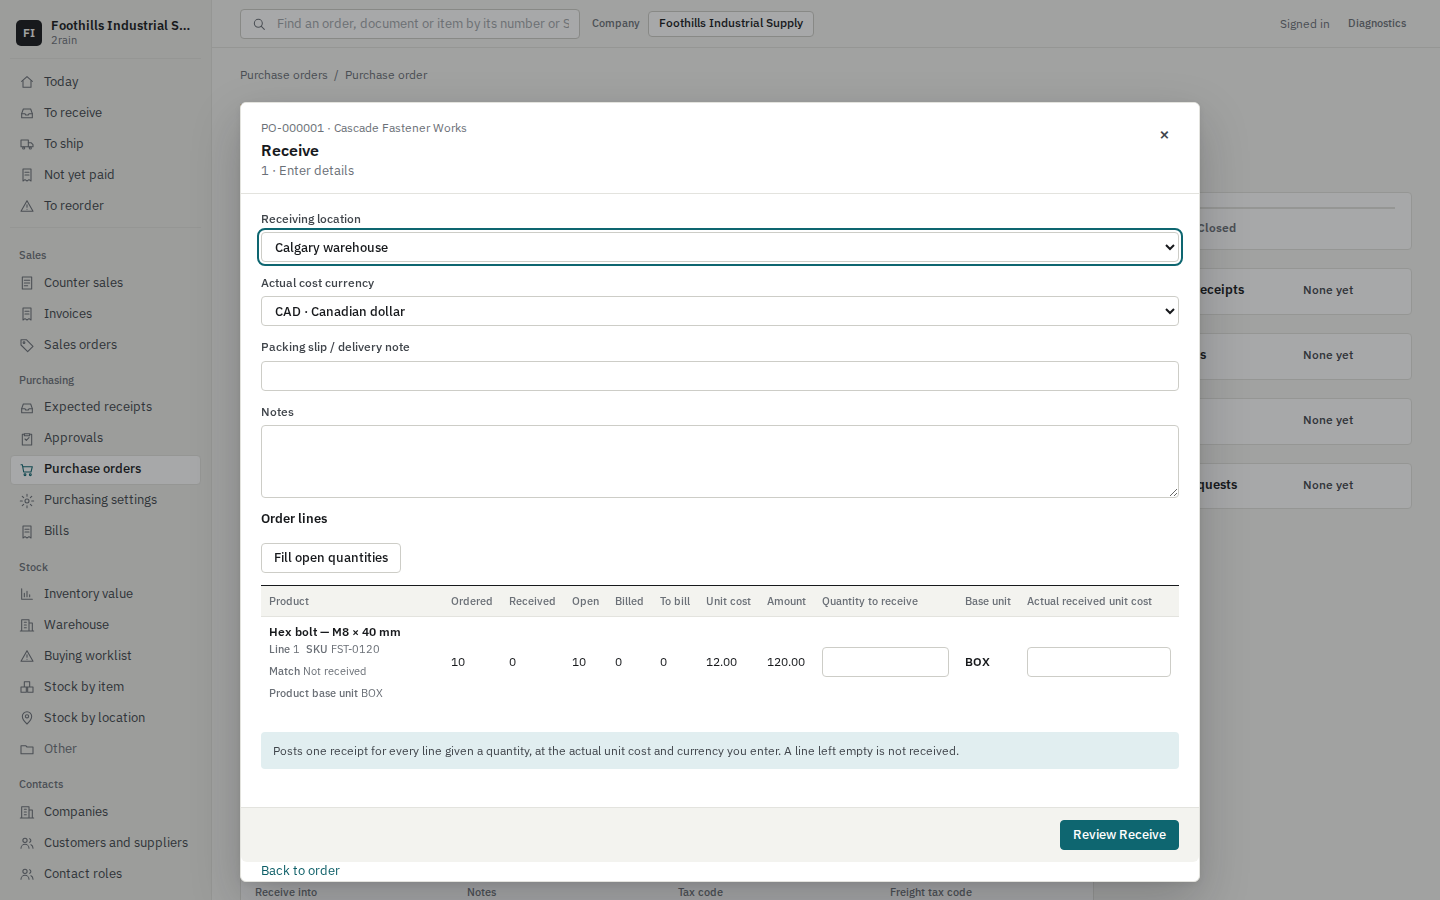
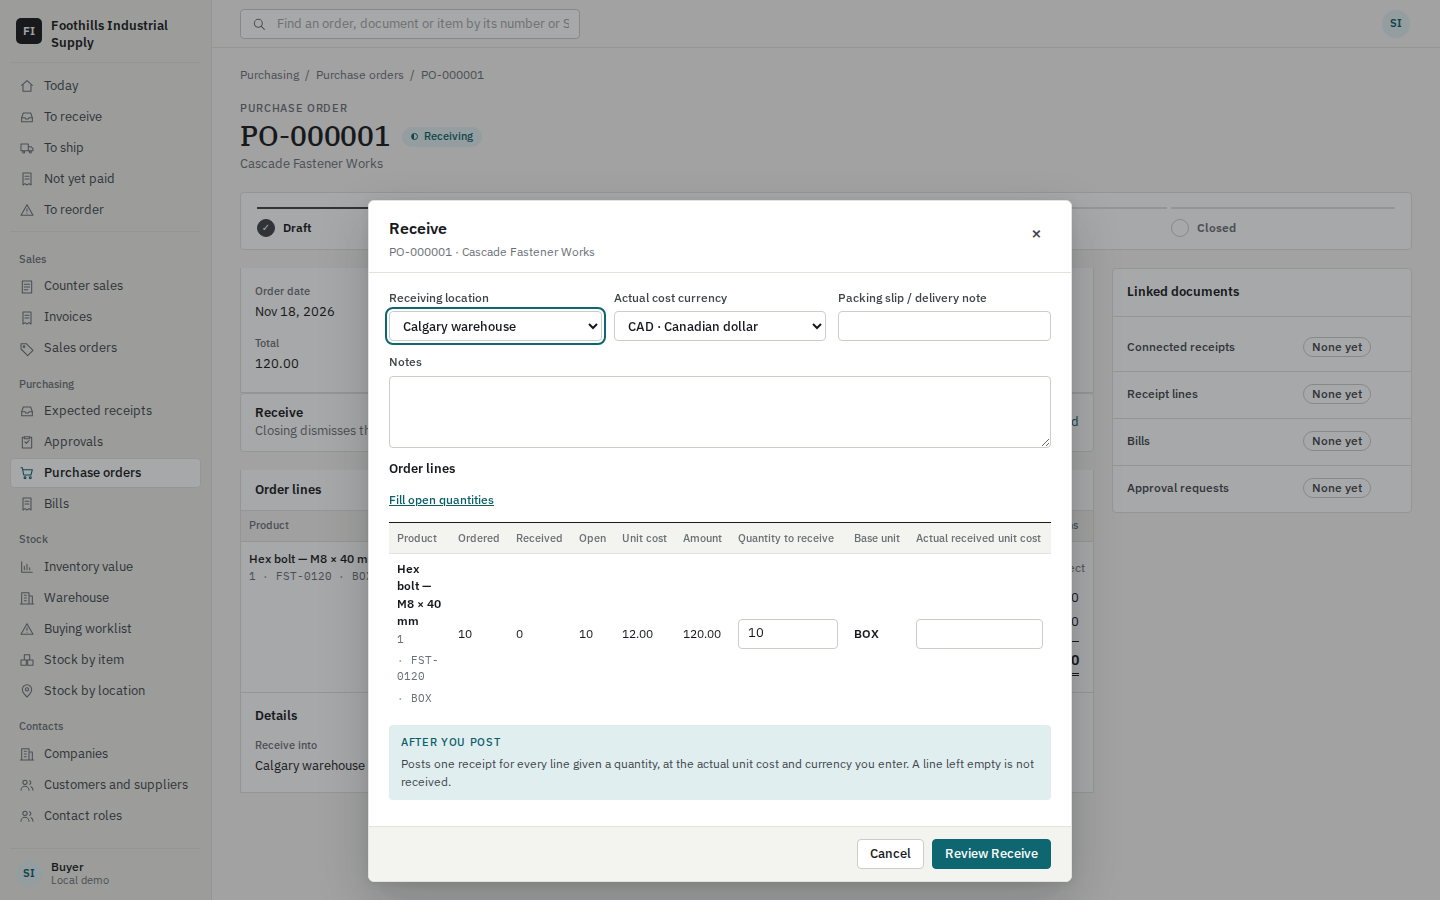
docs(execution): LOOK-1 round 3 integrated — record, ledger and review-log rows, evidence
Round 3 (c)-(e) merged at e7a284f4 (packet tip bfae71f0, CI run
44325476363 green); 28 app screenshots re-shot from that run's
look-evidence artifact (the 28 mockup shots are unchanged).

Packet: LOOK-1

diff --git a/docs/execution/packets/LOOK-1.md b/docs/execution/packets/LOOK-1.md
@@ -1,78 +1,75 @@
 # LOOK-1 — every screen in the Ledger look the owner chose
 
-Status: round 2 frozen at `e15cda79` (CI green, run 44288078657). Mechanical (no Critical path). Round 1 integrated at
-`5d07856a` (its full record: this file at `51b99470`). Round 2 base `51b99470`. Rulings 2026-11-18: `rail` key, per-field
-`disclosure: 'more'` and `dateOnly: true` approved; B11 option B (one primary "Save"); Custom group declared by the
-customization expansion, never read from ids (lease on `packages/customization/src/apply.ts` for that one change).
+Status: round 3 frozen at `bfae71f0` (CI green, run 44325476363). Mechanical (no Critical path). Round 3 answers Fable
+review 1 (`2rain-missions/look-1-fable-review-1.md`), merged in groups: (a) `fb3f95ee`, (b) `eed94293`, (c)–(e) together
+(ruled: they share render files; the deviation from one merge per group is accepted). Earlier rounds: round 2 `d0d3baf7`,
+round 1 `5d07856a` (their records: this file at `c3ab7ab1` and `51b99470`). Claim base: main `1156974b`, merged in.
 
-## Round 2 claims (round 1: tokens, shell, record parts, lists/forms, the proof `look.composed-application.spec.ts`)
+## Round 3 claims
 
-1. A (record pages): one PO lines table, totals under it; empty child sections say "None yet" quietly; no engineering
-   prose; long commands and print behind "Record actions"; next-step buttons carry the record's figure ("Receive 10");
-   exactly one current step; the document badge takes its declared colour (the CSS never coloured it); eyebrow
-   "Purchase order"; Details shows only fields not shown elsewhere; technical details quiet.
-2. Right rail: `presentation.rail` on a dataset (PO receipts, receipt lines, bills, approvals; SO shipments, invoices)
-   stacks it in one column beside the sheet; a dataset with line progress is refused the rail.
-3. B (forms): first fields, then "More details" (`disclosure: 'more'`; a required field is refused it); order dates are
-   `dateOnly: true` (a date input, no "(UTC)"; refused on a non-date-time field); one primary "Save".
-4. C: the proof enters an Equipment record (name, serial, date, status) and shows its page: eyebrow, title, the
-   lifecycle badge, one Details grid with values by field kind (a choice's label, a date as a date), identity in
-   technical details. Customization declares a "Custom" module (`custom_record-types`) and lists each record type
-   there through `navigationModuleId`; the group keeps its heading over a placed single destination, which keeps its
-   own name. Lists show no selection bar until a row is ticked.
-5. D: the sidebar does not repeat Today; Companies list under Contacts, Inventory value under Stock; a group's several
-   occasional destinations wait under its own "Other" (Stock: movements, period locks, inventory transactions, counts);
-   the distributor seed and order-entry fixture name the company "Foothills Industrial Supply" (ids unchanged); Today's
-   Open sits beside the find box.
+1. (a) Chrome: the top bar is the search and an initials avatar whose menu holds the principal, the demo's person
+   switch and Diagnostics; the sidebar's head is the page's company (the same Company links); queues and areas scroll
+   between a fixed head and a foot naming the person and role; one Settings disclosure holds the groups' occasional
+   destinations; a record's identity and revision live in its "…" or Record actions menu. Queue counts on every page
+   are SPEED-1's (PR #72), styled once. The proof refuses raw ids anywhere on the page.
+2. (b) Stock: optional List key `compact: 'scrollTable'` keeps a table scrolling in its panel on a phone; declared
+   Lists name themselves once, count plainly, keep a one-line toolbar, read zeros faint (`data-zero`), badge only
+   exceptions.
+3. (c) Record bodies: the badge names the stepper's current step from the declared progression (the SO's first step
+   is "Draft"); one Linked documents panel; one document sheet; Details lists what the record holds (eight, the rest
+   under More details); empty charge rows hidden; `print.currency` reads "Total CAD"; PO lines' three-way match in
+   their details; breadcrumbs area / List / record; Record actions is "…"; generic records: serif title, badge beside
+   it, revision for screen readers, Edit secondary, one Details heading.
+4. (d) Receive: rows start with what is open (the declared fill, at open); header fields three to a row; the declared
+   consequence as "After you post"; Cancel beside the one primary; the review step stays (contract). New PO: eyebrow and
+   serif title, neutral Draft badge, a line's discount and tax behind its More (`disclosure: 'more'` on line fields),
+   × to remove, one primary "Save draft" (ruling).
+5. (e) Today: no find box (searched from the top bar, on a phone too), tile icons, a centred line under the tiles.
 
 ## Decisions
 
-- "Other", not "More", for a group's occasional destinations: the compiler's top-level More keeps its one meaning.
-- Inventory transactions is `setup` membership: placement only, never authorization (ADR-0030).
-- The seed renames the provisioned company by one update at revision 1, replayed by its key on restart.
-- Customized release roots change (the expansion adds the Custom module): pre-tenant re-baseline, ADR-0066.
-- Today keeps tiles and the find box: no "To receive" table or activity query exists (the page budget forbids one per widget).
-- The proof also refuses canonical ids and raw instants on every screen.
-- Next-step buttons are the action's label plus the record's figure ("Receive 10", "Ship 4"); "Receive 10 remaining"
-  would need a per-action template, a language key not taken here.
+- The badge and stepper agree by construction: the badge reads the progression's current step, its last when all are
+  complete, the record's state when no step applies (cancelled). A closed PO with goods to bill reads "Billing".
+- ux-grammar wins: pager targets stay 44px; the save note keeps its row above Save (pinned layout).
+- PO lines keep Ordered and Received (line progress names two quantity columns) and Line (it names the receive input).
+- New optional keys: List `compact`, `print.currency`; each with compiler accept/refuse tests, coverage re-derived,
+  release re-baselined (pre-tenant, ADR-0066).
+- A sortable heading's screen-reader text is contained by its scrolling table (it widened the phone page).
 
 ## Gates
 
-CI run 44288078657 green at `e15cda79` (every job, the proof). Local: format, lint, scoped typecheck, touched unit tests, the
-web contract and integration files, `check:app-release`, coverage decisions re-derived. Shots: `docs/execution/evidence/look-1/`.
+CI run 44325476363 green at `bfae71f0` (every job, the proof). Local: format, lint, scoped typecheck, touched unit tests,
+the web contract and integration files, `check:app-release`. Shots: `docs/execution/evidence/look-1/` (56, from the run).
 
 ## Test it yourself
 
-`pnpm --filter @north-star/api dev:reset`, `pnpm dev`, <http://127.0.0.1:4174/>: the bar names Foothills Industrial
-Supply; open a purchase order: one lines table, "Receive N" button, linked records in the right column, other commands
-under Record actions; New purchase order: four fields then More details, a date-only order date, one Save; Customize an
-Equipment type, add one record: it is under Custom with labelled values.
+`pnpm --filter @north-star/api dev:reset`, `pnpm dev`: the avatar menu holds Switch person and Diagnostics; Stock by item
+on a phone scrolls sideways in its panel; a purchase order's badge reads its step, Linked documents sit right, "Total
+CAD" under the lines; Receive opens with the open quantities filled; New purchase order hides discount and tax per line.
 
 ## Filed
 
-- SO lines stay two tables: fulfillment and commercial read models are separate queries and read models do not nest.
-- Rail activity, stepper captions, "created by": no event source. Create-form running total: no declared draft formula.
-- `saveThen` (option A, "Save and place") for phase 3, with its partial-failure notes (save committed, place refused).
-- To invoice queue; totals' currency code. Tenant record pages: the badge is the lifecycle ("Active · revision 1", pinned by specs), not the record's own Status
-  choice (a patch declares no status role); activity has no source; the breadcrumb reads "Equipment / Equipment".
-- The assistant panel (AGENT-3) restyle follows once it lands.
+- Today's "To receive" rows: a row read on the landing page is SPEED-1's loader and page budget, not the look's.
+- "+ Purchase order / + Sales order" on Today: a launcher declares no create actions.
+- Parties block: grouping Vendor and Receive into would repeat the subtitle and a fact; no addresses exist.
+- Step dates, "placed … by", the date and location subtitle, activity, bell: no source.
+- Tenant record pages: the badge is the lifecycle; a patch declares no status role. Native date input kept.
+- Assistant panel restyle follows AGENT-3.
 
 ```record-claim
 {
   "schemaVersion": "northstar.record-claim/v1", "packet": "LOOK-1",
-  "base": "51b99470d1b9e29af733943f979d2598967426b8", "head": "e15cda79c78e2a9f7288aa498aedc6c5a64b43b5",
+  "base": "1156974be082eca82ecb05135036c588502a8306", "head": "bfae71f09c22a6c84e50f1a20857a5729c4789aa",
   "changedPaths": [
-    "apps/api/src/composition-root.ts", "apps/web/release/app.authored.json", "apps/web/release/app.compiled.json", "apps/web/src/component-registry.ts", "apps/web/src/document-editor.ts", "apps/web/src/editor-controls.ts", "apps/web/src/ledger-styles.ts", "apps/web/src/message-catalog.ts",
-    "apps/web/src/surface-composition.ts", "apps/web/src/surface-runtime.ts", "apps/web/test/browser/composed-application.spec.ts", "apps/web/test/browser/customer-defaults.spec.ts", "apps/web/test/browser/inventory-documents.spec.ts", "apps/web/test/browser/inventory-valuation.spec.ts", "apps/web/test/browser/inventory-warehouse-mode.spec.ts", "apps/web/test/browser/location-runtime.spec.ts",
-    "apps/web/test/browser/look.composed-application.spec.ts", "apps/web/test/browser/loop-scorecard.ts", "apps/web/test/browser/message-catalog.spec.ts", "apps/web/test/browser/order-entry.spec.ts", "apps/web/test/browser/order-pages.spec.ts", "apps/web/test/browser/order-pricing.spec.ts", "apps/web/test/browser/payables.spec.ts", "apps/web/test/browser/price-list-pricing.spec.ts",
-    "apps/web/test/browser/purchase-pricing.spec.ts", "apps/web/test/browser/receivables.spec.ts", "apps/web/test/browser/receiving.composed-application.spec.ts", "apps/web/test/browser/sale-fulfillment.composed-application.spec.ts", "apps/web/test/browser/sales-order.composed-application.spec.ts", "apps/web/test/browser/surface-data-binding.spec.ts", "packages/canonical-model/src/schemas.ts", "packages/canonical-model/src/surface-composition.ts",
-    "packages/canonical-model/src/surface-workspace.ts", "packages/customization/src/apply.ts", "packages/domain/src/app/builder.ts", "packages/domain/src/app/order-entry.ts", "packages/domain/src/app/seed.ts", "packages/domain/src/purchasing/approval-workspace.ts", "packages/domain/src/purchasing/workspace.ts", "packages/domain/src/sales/workspace.ts",
-    "test/architecture/surface-grammar-conformance.test.ts", "test/fixtures/g2/language-conformance/coverage-decisions.json", "test/helpers/assert-composed-inventory.ts", "test/helpers/order-entry-fixture.ts", "test/integration/location-runtime.test.ts", "test/integration/surface-data-binding.test.ts", "test/performance/page-budget.test.ts", "test/postgres/inventory-posting.test.ts",
-    "test/postgres/order-pages.test.ts", "test/unit/canonical-model/surface-composition.test.ts", "test/unit/canonical-model/surface-launcher.test.ts", "test/unit/customization.test.ts", "test/unit/purchasing-definition.test.ts", "test/unit/workspace-contract.test.ts"
+    "apps/web/release/app.authored.json", "apps/web/release/app.compiled.json", "apps/web/src/component-registry.ts", "apps/web/src/document-editor.ts", "apps/web/src/ledger-styles.ts", "apps/web/src/navigation-icons.ts", "apps/web/src/surface-composition.ts", "apps/web/src/surface-launcher.ts",
+    "apps/web/src/surface-runtime.ts", "apps/web/test/browser/composed-application.spec.ts", "apps/web/test/browser/customer-defaults.spec.ts", "apps/web/test/browser/inventory-documents.spec.ts", "apps/web/test/browser/inventory-warehouse-mode.spec.ts", "apps/web/test/browser/look.composed-application.spec.ts", "apps/web/test/browser/loop-scorecard.ts", "apps/web/test/browser/message-catalog.spec.ts",
+    "apps/web/test/browser/meta-sales.spec.ts", "apps/web/test/browser/order-entry.spec.ts", "apps/web/test/browser/order-pages.spec.ts", "apps/web/test/browser/order-pricing.spec.ts", "apps/web/test/browser/payables.spec.ts", "apps/web/test/browser/price-list-pricing.spec.ts", "apps/web/test/browser/purchase-approvals.spec.ts", "apps/web/test/browser/purchase-pricing.spec.ts",
+    "apps/web/test/browser/receivables-counter-sale.spec.ts", "apps/web/test/browser/receiving.composed-application.spec.ts", "apps/web/test/browser/sale-fulfillment.composed-application.spec.ts", "apps/web/test/browser/sales-order.composed-application.spec.ts", "apps/web/test/browser/surface-data-binding.spec.ts", "packages/canonical-model/src/schemas.ts", "packages/canonical-model/src/surface-composition.ts", "packages/domain/src/app/order-entry.ts",
+    "packages/domain/src/app/today.ts", "packages/domain/src/purchasing/workspace.ts", "packages/domain/src/sales/workspace.ts", "test/fixtures/g2/language-conformance/coverage-decisions.json", "test/integration/surface-data-binding.test.ts", "test/unit/canonical-model/surface-composition.test.ts", "test/unit/workspace-contract.test.ts"
   ],
   "symbols": [
-    {"path": "packages/domain/src/app/builder.ts", "name": "composedDestinationPlacement"}, {"path": "packages/domain/src/app/seed.ts", "name": "DISTRIBUTOR_COMPANY_NAME"},
-    {"path": "apps/web/src/surface-runtime.ts", "name": "sidebarNavigation"}, {"path": "apps/web/src/component-registry.ts", "name": "recordFieldValue"}
+    {"path": "apps/web/src/surface-composition.ts", "name": "badgeStep"}, {"path": "apps/web/src/surface-composition.ts", "name": "prefilledRows"},
+    {"path": "apps/web/src/navigation-icons.ts", "name": "declaredIcon"}, {"path": "apps/web/src/component-registry.ts", "name": "navigationGroupLabel"}
   ]
 }
 ```

diff --git a/docs/execution/ledger.md b/docs/execution/ledger.md
@@ -217,4 +217,4 @@ before any become `admitted`.
 | CI-1 | Faster CI: the general PostgreSQL suite in three shards, commercial and sales as separate jobs, the composed job started first, Chromium cached, and the final gate requires every job's success (`.github/scripts/check-ci-results.mjs`) | the speed program | Mechanical (CI workflow and test helpers; no Critical path) | **integrated 2026-11-18 at `e444b482448a0316d7fe3ca97e0f46e3560ac639`; review-log `merged — no Critical path`** | packet tip `4beb4c37`; PR #66; CI green (17 success, 3 skipped) | [charter](packets/CI-1-charter.md). |
 | SPEED-1 (security fix round) | The adjudicated findings of two reviews of slices 2-4: invocations outside any page snapshot so every write-path decision is live (S1); a task step under a policy change is re-sent by GET with its commit intact (S2); moving a policy row bumps both scopes' epochs (migration 0030, S3); one tenant and environment per page (S4); an aggregate anchor written only under its live epoch (S5); denials recorded after the reads (S6); the editor finishes its reads outside its catch (S7); a transaction of its own takes the page's turn, one connection per request (S8); a loading release awaited outside the snapshot (S9); plus the reviews' test gaps. Confirm 16 -> 21 transactions (live decisions) | the speed packet | Critical (migration 0030, epoch trigger) | **integrated 2026-11-18 at `ab5ab5e2fa4d31ccd5a312112c2fd5de7850e518`; review-log `merged — unread`** | packet tip `5839d9c4`; CI run 44253708314 green | [packet](packets/SPEED-1.md). |
 | SPEED-1 (fix read and queue counts) | The fix read of `071c7796..ab5ab5e2`: denials committed on their own evidence pool before the answer, an unrecorded one failing the page (S6, read 1); the aggregate anchor holds `lock_current_policy_epoch` FOR SHARE to commit (S5, read 2, migration 0031); a Confirm under a policy change answers 409 with the session's own retry (S2, read 3); invocations and cold release routes resolved outside the page's turn (S8/S9, read 4); moved policy rows bump both epochs in canonical order (S3, read 5, 0031); each test red on the reverted code. Queue counts: Today's first three tiles counted in every page's snapshot, shown by LOOK-1's work queues; a snapshot sends an identical statement once (PO list 2 and SO detail 5 repeats to 0); +5 statements a page, no transaction | the speed packet | Critical (migration 0031: ordered epoch bumps, `lock_current_policy_epoch`) | **integrated 2026-11-18 at `e37c126e9e83b125397e5a51108b057fd9215293`; review-log `merged — unread`** | packet tip `86763ae3`; CI run 44305308130 green | [packet](packets/SPEED-1.md). |
-| LOOK-1 | Every generated screen in the Ledger look the owner chose (ledger-spec.md): spec tokens light/dark and compact/comfortable, Plex type; the shell with work queues above the area groups, declared icons (a closed set of twenty on module, destination and tile) and a phone menu drawer; record pages with the serif number, stepper, next-step card (one primary, a sentence from the record's figures), facts grid, per-line progress from a declared `presentation.progress`, totals; lists with numbers right; the create form; plain names for the setup lists. Proof: seven mockup screens at 1440/390, light/dark, from the seed with Equipment added through Customize Round 2 (polish to mockup parity): one PO lines table, Record actions, figure buttons, one current step, coloured badges, a declared right rail; More details and date-only order dates on forms; finished tenant record pages; the Custom group declared by customization; sidebar without a repeated Today, an "Other" for occasional destinations; Foothills Industrial Supply in the seed. | phase 2 of the loop plan | Mechanical (renderer, definition, two optional language keys; no Critical path) | **round 3 in progress: groups (a), (b) integrated 2026-11-18, (b) at `eed94293b1ebbf218436737fcf370829e23eceb8`** (round 2 at `d0d3baf7`, round 1 at `5d07856a`); review-log `merged — no Critical path` | round 3 (b) packet tip `2d29820e`; CI run 44312490924 green | [packet](packets/LOOK-1.md); screenshots `evidence/look-1/`. |
+| LOOK-1 | Every generated screen in the Ledger look the owner chose (ledger-spec.md): spec tokens light/dark and compact/comfortable, Plex type; the shell with work queues above the area groups, declared icons (a closed set of twenty on module, destination and tile) and a phone menu drawer; record pages with the serif number, stepper, next-step card (one primary, a sentence from the record's figures), facts grid, per-line progress from a declared `presentation.progress`, totals; lists with numbers right; the create form; plain names for the setup lists. Proof: seven mockup screens at 1440/390, light/dark, from the seed with Equipment added through Customize Round 2 (polish to mockup parity): one PO lines table, Record actions, figure buttons, one current step, coloured badges, a declared right rail; More details and date-only order dates on forms; finished tenant record pages; the Custom group declared by customization; sidebar without a repeated Today, an "Other" for occasional destinations; Foothills Industrial Supply in the seed. | phase 2 of the loop plan | Mechanical (renderer, definition, two optional language keys; no Critical path) | **round 3 integrated 2026-11-18: (a) `fb3f95ee`, (b) `eed94293`, (c)–(e) at `e7a284f4cc1ea843e6fd365b9a532d42a7272336`** (round 2 `d0d3baf7`, round 1 `5d07856a`); review-log `merged — no Critical path` | round 3 packet tip `bfae71f0`; CI run 44325476363 green | [packet](packets/LOOK-1.md); screenshots `evidence/look-1/`. |

diff --git a/docs/execution/review-log.md b/docs/execution/review-log.md
@@ -215,3 +215,4 @@ one line per round; the gate only requires that the SHA on `main` appears.
 | `d0d3baf7d87c19cbdffa31cb4d718715bfd680a0` | LOOK-1 | integration | MERGED — no Critical path | 2026-11-18 | Round 2 (polish to mockup parity), PR #73, `--no-ff`, packet tip `e15cda79` second parent; CI green at the tip (run 44288078657, attempt 2 after a COMPILE_BUDGET_INDETERMINATE rerun). Renderer (`component-registry.ts`, `surface-composition.ts`, `surface-runtime.ts`, `ledger-styles.ts`, `document-editor.ts`, `editor-controls.ts`, message catalog), optional `rail`, `disclosure` and `dateOnly` keys with compiler accept/refuse tests, first-party declarations, customization's Custom module (lease for that one change; customized release roots re-baseline), seed company name; coverage decisions re-derived. |
 | `fb3f95ee3e8eaa67500f848847418b46dedf1210` | LOOK-1 | integration | MERGED — no Critical path | 2026-11-18 | Round 3 group (a), chrome and sidebar (Fable review 1 items 3, 12), PR #74, `--no-ff`, packet tip `7d534458` second parent; CI green at the tip (run 44297004206, attempt 2 after runner-speed timeouts). Shell markup and styles only (`surface-runtime.ts`, `component-registry.ts`, `ledger-styles.ts`) and their spec pins. |
 | `eed94293b1ebbf218436737fcf370829e23eceb8` | LOOK-1 | integration | MERGED — no Critical path | 2026-11-18 | Round 3 group (b), Stock (Fable review 1 items 1, 5), PR #75, `--no-ff`, packet tip `2d29820e` second parent; CI green at the tip (run 44312490924). Optional List key `compact: 'scrollTable'` with compiler accept/refuse test, coverage decisions re-derived, release re-baselined; declared List markup and styles. |
+| `e7a284f4cc1ea843e6fd365b9a532d42a7272336` | LOOK-1 | integration | MERGED — no Critical path | 2026-11-18 | Round 3 groups (c), (d), (e) together (ruled), record bodies, Receive and new PO, Home (Fable review 1 items 2, 4, 6-11, 13-15), PR #76, `--no-ff`, packet tip `bfae71f0` second parent; CI green at the tip (run 44325476363). Renderer, styles, first-party declarations (PO lines, SO step, line disclosure, Today slots), optional `print.currency` key with compiler accept/refuse test, coverage re-derived, release re-baselined; 28 app screenshots re-shot. |
